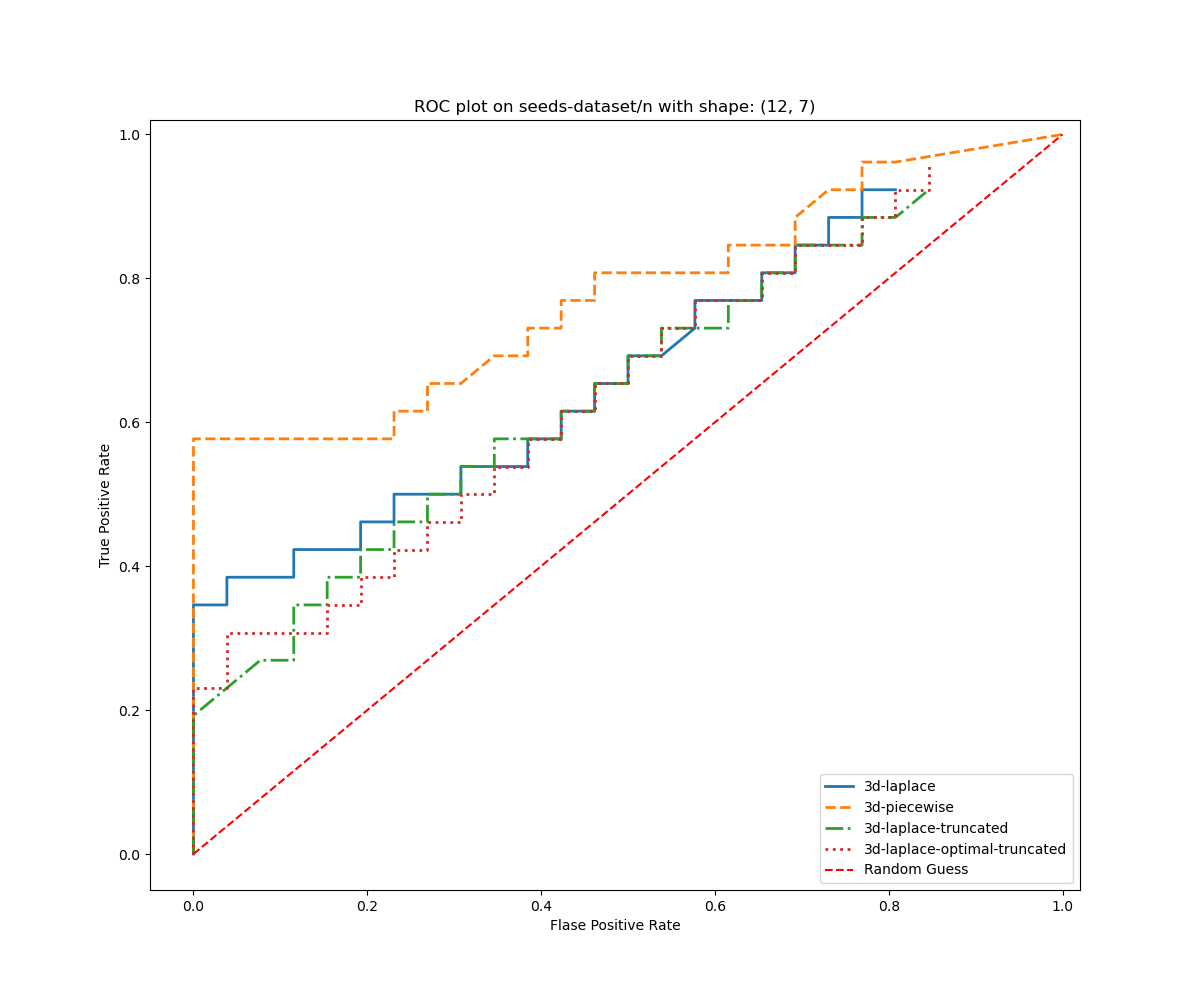
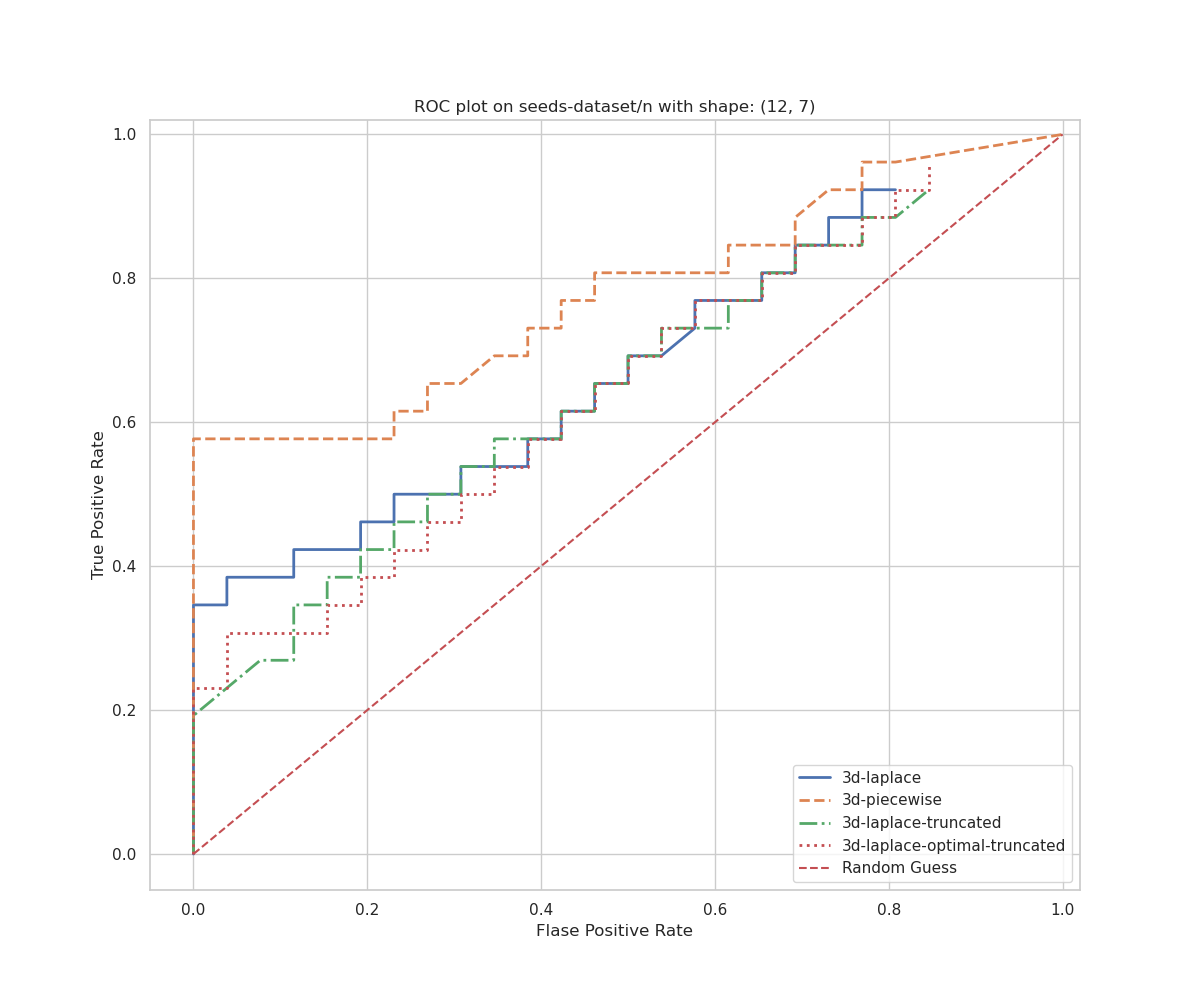
prettify comparison charts and add base-line

diff --git a/ExperimentRunners/main.py b/ExperimentRunners/main.py
@@ -2,6 +2,8 @@ from matplotlib import pyplot as plt
 import numpy as np
 import pandas as pd
 from sklearn.cluster import DBSCAN, OPTICS, AffinityPropagation, KMeans
+from sklearn.preprocessing import StandardScaler
+from sklearn.metrics import calinski_harabasz_score, silhouette_score
 import typer
 import seaborn as sns
 import os.path
@@ -17,6 +19,16 @@ research_question_2_algorithms = ["3d-laplace", "3d-piecewise", "3d-laplace-trun
 research_question_3_algorithms = ["nd-piecewise", "nd-laplace", "nd-laplace-truncated"]
 supported_algorithms = ["2d-laplace-truncated", "2d-piecewise", "2d-laplace", "3d-laplace", "3d-piecewise", "3d-laplace-truncated", '2d-laplace-optimal-truncated', '3d-laplace-optimal-truncated', "nd-piecewise", "nd-laplace", "nd-laplace-truncated"]
 supported_datasets = ["seeds-dataset", "heart-dataset"]
+dataset_locations = {
+    "seeds-dataset": {
+        "RQ1": "../data/seeds-dataset/rq1.csv",
+        "RQ2": "../data/seeds-dataset/rq2.csv"
+    },
+    "heart-dataset": {
+        "RQ1": "../data/heart-dataset/heart_numerical.csv",
+        "RQ2": "../data/heart-dataset/heart_numerical.csv"
+    }
+}
 dataset_algorithm_features = {
     "2d-laplace-truncated": {
         "seeds-dataset": ["area", "perimeter"],
@@ -177,12 +189,33 @@ def get_models_for_comparison(dataset: str, algorithm: str):
             '2d-laplace-optimal-truncated': KMeans(n_clusters=4, init='random', algorithm='lloyd'),
         }
     
-def plot_comparison(utility_metrics: pd.DataFrame, dataset, algorithm_type, metric = "ami", mechanism_comparison = None, research_question = 'RQ1'): 
-    fig, ax = plt.subplots(figsize=(12, 10))
-    sns.barplot(x='epsilon', y=metric, hue="algorithm", data=utility_metrics, ax=ax, errorbar=None)
+def find_baseline_values(plain_df: pd.DataFrame, model: KMeans, n_times=10):
+    plain_df_scaled = StandardScaler().fit_transform(plain_df)
+    ch_scores = []
+    sc_scores = []
+    for i in range(n_times):
+        plain_fitted_df = model.fit(plain_df_scaled)
+        ch = calinski_harabasz_score(plain_df_scaled, plain_fitted_df.labels_)
+        sc = silhouette_score(plain_df_scaled, plain_fitted_df.labels_)
+        ch_scores.append(ch)
+        sc_scores.append(sc)
+    return {'sc': np.mean(sc_scores), 'ch': np.mean(ch_scores)}
+
+def plot_comparison(utility_metrics: pd.DataFrame, dataset, algorithm_type, baseline_value=None, metric = "Adjusted Mutual Information", mechanism_comparison = None, research_question = 'RQ1'): 
+    sns.set(style="whitegrid", color_codes=True)
+    fig, ax = plt.subplots(figsize=(20, 10))
+    bar = sns.barplot(x='epsilon', y=metric, hue="algorithm", data=utility_metrics, ax=ax)
     algorithm = utility_metrics.iloc[0]['algorithm'] if mechanism_comparison is None else mechanism_comparison
     features = dataset_algorithm_features[algorithm_type][dataset]
-    ax.set_title(f"Comparison of {metric} for {dataset}. Algorithm: {algorithm}. Dimensions: {len(features)}")
+    if baseline_value is not None:
+        ax.axhline(y=baseline_value, linestyle='--', label='non-private K-Means (baseline)')
+    ax.set_title(f"Comparison of {metric} for {dataset} using K-Means. Algorithm: {algorithm}. Dimensions: {len(features)}")
+    hatches = ['-', '+', 'x', '\\', '*', 'o', '--']
+    for bars, hatch in zip(bar.containers, hatches):
+        for bar in bars:
+            bar.set_hatch(hatch)
+
+    ax.legend(title='Mechanism')
     fig.savefig('results/'+research_question+'/' + dataset + '/' +metric+'_'+dataset+'_comparison.png')
     plt.clf()
 
@@ -238,7 +271,8 @@ def run_comparison_experiment(research_question: str, dataset: str):
     print(f'Running {research_question}')
     algorithm = '2d-laplace-truncated' if research_question == 'RQ1' else '3d-laplace' if research_question == 'RQ2' else 'nd-laplace'
     algorithms = research_question_1_algorithms if research_question == 'RQ1' else research_question_2_algorithms if research_question == 'RQ2' else research_question_3_algorithms
-    model_name = helpers.map_models_to_name(get_models(dataset=dataset, algorithm=algorithm)['KMeans'])
+    algorithm_model = get_models(dataset=dataset, algorithm=algorithm)['KMeans']
+    model_name = helpers.map_models_to_name(algorithm_model)
 
     print('Considering:', model_name)       
     print('Algorithms', algorithms)
@@ -266,7 +300,13 @@ def run_comparison_experiment(research_question: str, dataset: str):
         roc_plot_title = 'ROC plot on '+ dataset + '/n with shape: ' + str(ultility_metrics.shape)
         helpers.display_roc_plot(comparison_dp_security, algorithms, title=roc_plot_title, save_as = get_export_path(dataset, research_question, prefix='results')+'roc_plot.png')
         for metric in ['ami', 'ari', 'ch', 'sc']:
-            plot_comparison(comparison_dp, dataset, algorithm, metric=metric, research_question=research_question)
+            baseline_value = None
+            if(metric == 'ch' or metric == 'sc'):
+                dataset_loc = dataset_locations[dataset][research_question]
+                plain_df = helpers.load_dataset(dataset_loc)
+                baseline_value = find_baseline_values(plain_df, algorithm_model)[metric]
+                print('baseline value', baseline_value)
+            plot_comparison(comparison_dp, dataset, algorithm, metric=metric, research_question=research_question, baseline_value=baseline_value)
 
     print("Concatenated utility results:", comparison_dp.head())
     print("Concatenated security results:", comparison_dp_security.head())

diff --git a/Helpers/helpers.py b/Helpers/helpers.py
@@ -3,7 +3,7 @@ from matplotlib import pyplot as plt
 import numpy as np
 import pandas as pd
 from sklearn import clone
-from sklearn.discriminant_analysis import StandardScaler
+from sklearn.preprocessing import StandardScaler
 from sklearn.ensemble import RandomForestClassifier
 from sklearn.metrics import adjusted_mutual_info_score, adjusted_rand_score, calinski_harabasz_score, roc_curve, silhouette_score
 import seaborn as sns
